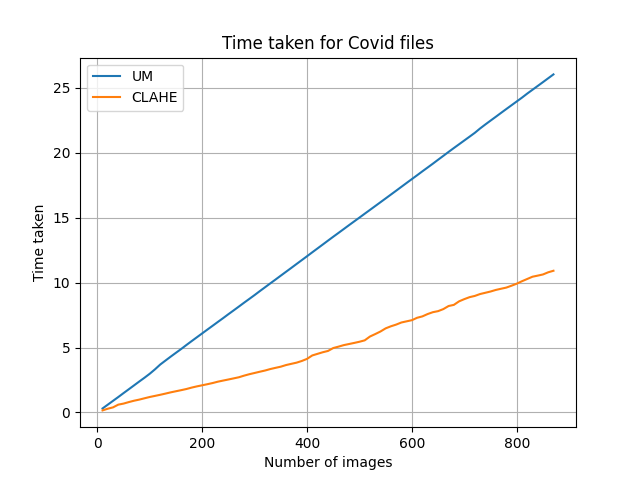
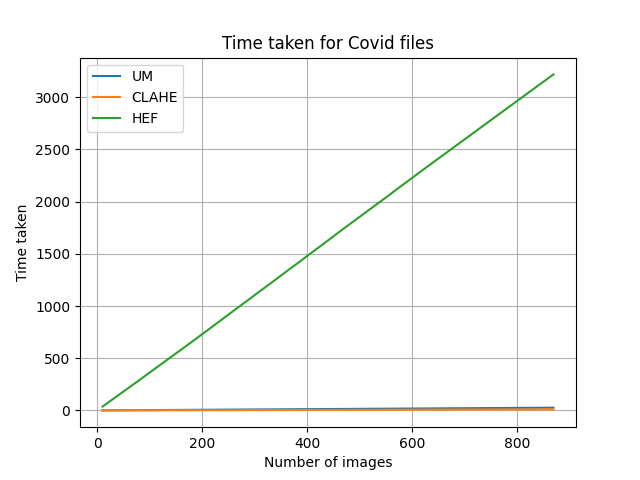
Added plotting for HEF

diff --git a/benchmarks/ComparisonPlot.py b/benchmarks/ComparisonPlot.py
@@ -21,9 +21,18 @@ def plot_graphs():
             if row:
                 clahe_covid[int(row[0])] = float(row[1])
 
+    with open(codes.directory.parent_dir + codes.directory.csv_dir + 'covid_time_count_HEF.csv', 'r') as csv_file:
+        reader = csv.reader(csv_file)
+        hef_covid = {}
+
+        for row in reader:
+            if row:
+                hef_covid[int(row[0])] = float(row[1])
+
     # plot graphs
     plt.plot(list(um_covid.keys()), list(um_covid.values()), label="UM")
     plt.plot(list(clahe_covid.keys()), list(clahe_covid.values()), label="CLAHE")
+    plt.plot(list(hef_covid.keys()), list(hef_covid.values()), label="HEF")
     plt.xlabel('Number of images')
     plt.ylabel('Time taken')
     plt.title('Time taken for Covid files')
